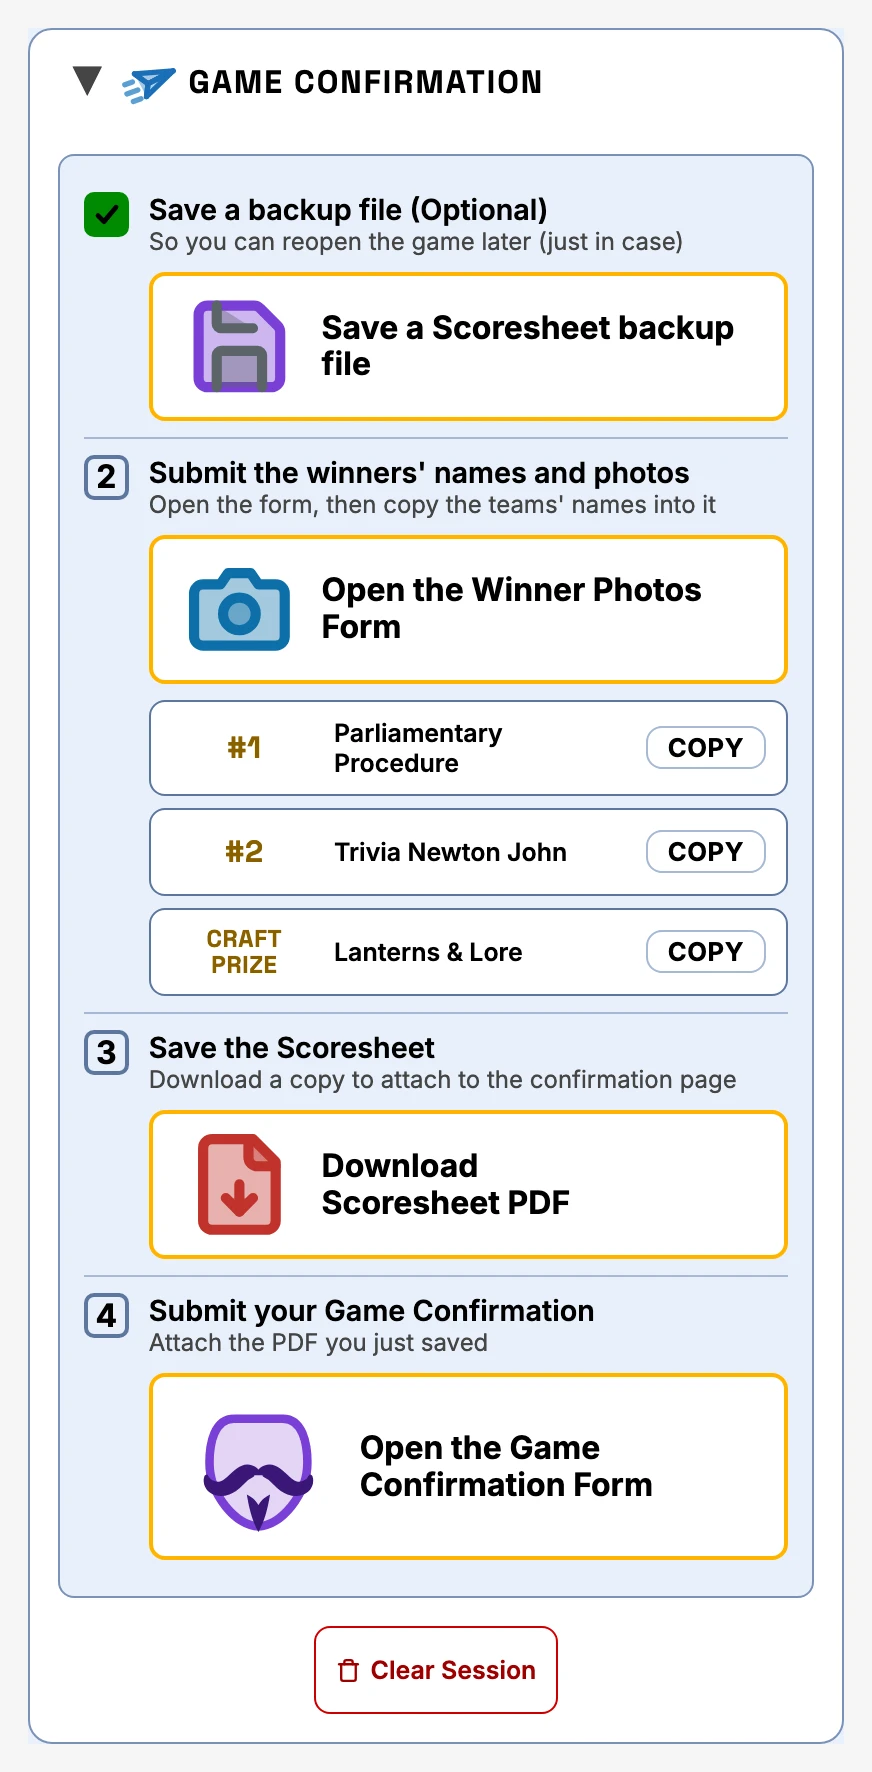
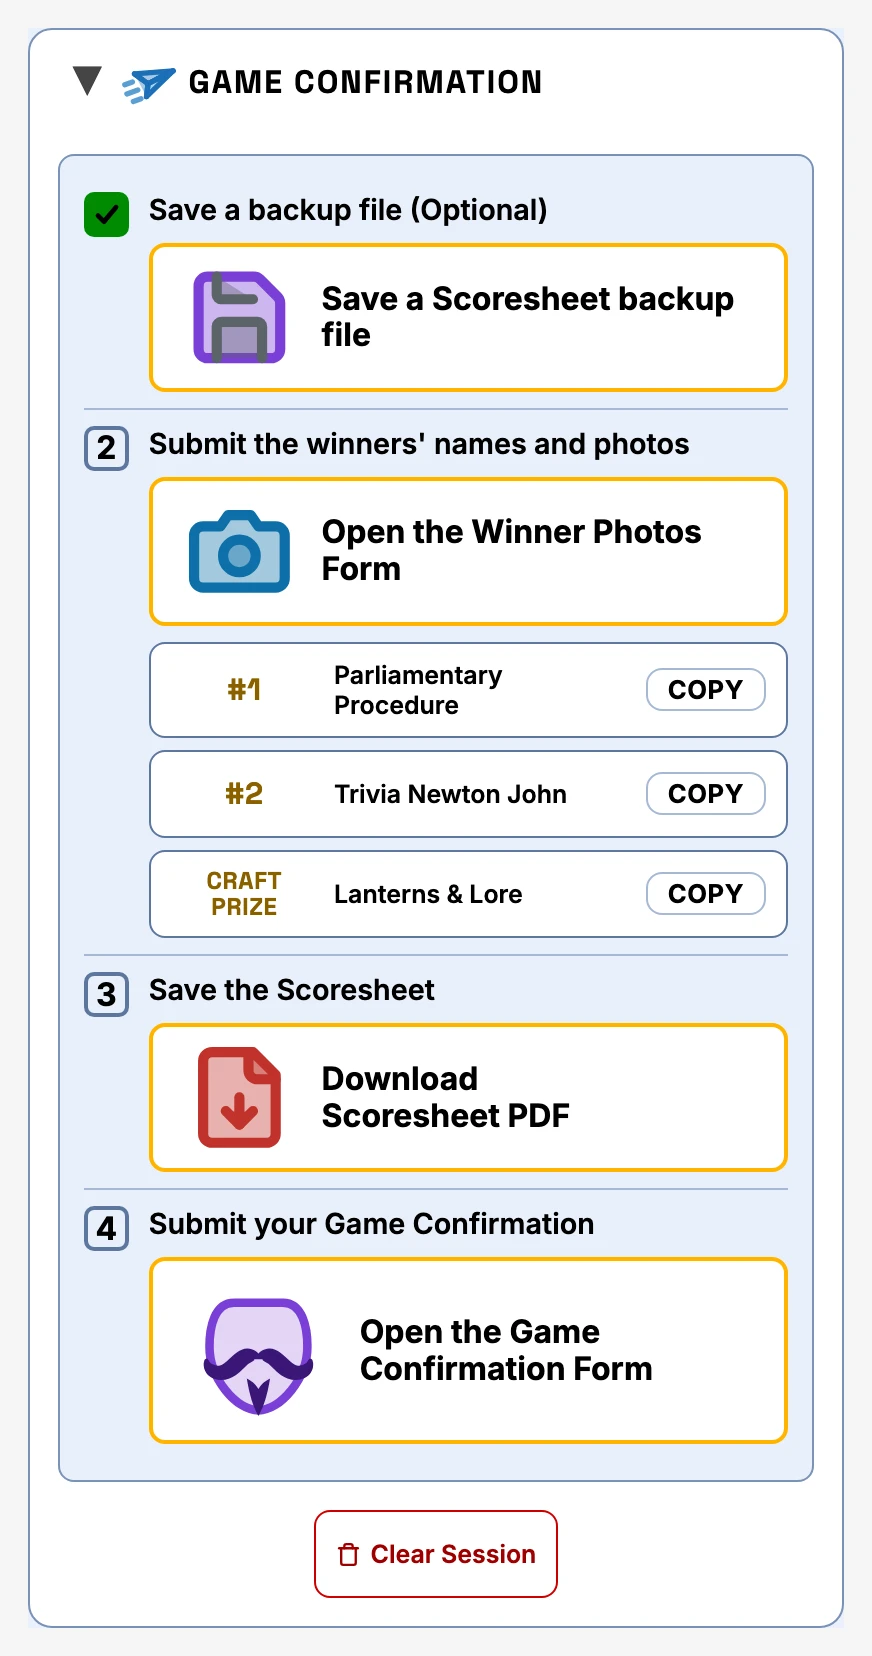
v22.71 Game Confirmation steps lose their subtitles, FAQ v1.72 screenshots

diff --git a/index.html b/index.html
@@ -109,7 +109,7 @@
     </div>
     </div>
     <div class="settings-panel-foot">
-    <div class="settings-meta"><span class="settings-version" id="versionLabel"></span><details class="settings-about"><summary>What's new</summary><div class="about-ver"><b>v22.70</b><ul><li>The "Copied" confirmation now fades back to the normal label smoothly instead of flashing, and step 4 says "Attach the PDF you just saved".</li></ul></div><div class="about-ver"><b>v22.69</b><ul><li>Game Confirmation: ticked steps use the same checkmark as question scoring, tapping the backup button no longer makes the view jump, step 4 is "Submit your Game Confirmation", and the place labels are darker in light mode.</li></ul></div><div class="about-ver"><b>v22.68</b><ul><li>Game Confirmation: the step buttons now have a gold outline, and only the #1/#2/#3 numbers are bigger in the copy buttons (Craft Prize is back to normal).</li></ul></div></details><span class="settings-disclaimer"><svg class="icon-ui" viewBox="0 0 24 24" aria-hidden="true" focusable="false"><path d="m21.73 18-8-14a2 2 0 0 0-3.48 0l-8 14A2 2 0 0 0 4 21h16a2 2 0 0 0 1.73-3"/><path d="M12 9v4"/><path d="M12 17h.01"/></svg> Built with Anthropic's Claude AI — double-check scores &amp; banter yourself.</span></div>
+    <div class="settings-meta"><span class="settings-version" id="versionLabel"></span><details class="settings-about"><summary>What's new</summary><div class="about-ver"><b>v22.71</b><ul><li>Game Confirmation: the subtitle under each step is gone, so the list is shorter.</li></ul></div><div class="about-ver"><b>v22.70</b><ul><li>The "Copied" confirmation now fades back to the normal label smoothly instead of flashing, and step 4 says "Attach the PDF you just saved".</li></ul></div><div class="about-ver"><b>v22.69</b><ul><li>Game Confirmation: ticked steps use the same checkmark as question scoring, tapping the backup button no longer makes the view jump, step 4 is "Submit your Game Confirmation", and the place labels are darker in light mode.</li></ul></div></details><span class="settings-disclaimer"><svg class="icon-ui" viewBox="0 0 24 24" aria-hidden="true" focusable="false"><path d="m21.73 18-8-14a2 2 0 0 0-3.48 0l-8 14A2 2 0 0 0 4 21h16a2 2 0 0 0 1.73-3"/><path d="M12 9v4"/><path d="M12 17h.01"/></svg> Built with Anthropic's Claude AI — double-check scores &amp; banter yourself.</span></div>
     </div>
   </div>
 </div>

diff --git a/js/app.js b/js/app.js
@@ -69,8 +69,8 @@ const FIELD_MAX = {
   timezone: 64,
   locale: 35,
 };
-const APP_VERSION = "v22.70"; // #Version Number — bump this manually when you release a new build
-const APP_VERSION_DATE = "Nov 22, 2026 4:31 AM"; // #Version Date — bump alongside APP_VERSION so folks can spot a stale build
+const APP_VERSION = "v22.71"; // #Version Number — bump this manually when you release a new build
+const APP_VERSION_DATE = "Nov 22, 2026 4:36 AM"; // #Version Date — bump alongside APP_VERSION so folks can spot a stale build
 // version.json (repo root) mirrors these two — see checkForUpdate() below for why, and bump it
 // in the same commit as these two or the update-available check starts lying: it'd either miss
 // a real new release (version.json still saying the old version) or nag a host running the
@@ -1109,10 +1109,10 @@ let finishDone = new Set();
 const FINISH_PHOTOS_URL = "https://form.jotform.com/263015326852050";
 const FINISH_CONFIRM_URL = "https://app.jotform.com/261954293403156";
 const FINISH_STEPS = [
-  { k: "backup", label: "Save a backup file (Optional)", hint: "So you can reopen the game later (just in case)" },
-  { k: "photos", label: "Submit the winners' names and photos", hint: "Open the form, then copy the teams' names into it" },
-  { k: "pdf", label: "Save the Scoresheet", hint: "Download a copy to attach to the confirmation page" },
-  { k: "confirm", label: "Submit your Game Confirmation", hint: "Attach the PDF you just saved" },
+  { k: "backup", label: "Save a backup file (Optional)" },
+  { k: "photos", label: "Submit the winners' names and photos" },
+  { k: "pdf", label: "Save the Scoresheet" },
+  { k: "confirm", label: "Submit your Game Confirmation" },
 ];
 
 

diff --git a/faq/index.html b/faq/index.html
@@ -1324,7 +1324,7 @@
         <div class="faq-shot">
           <img
             loading="lazy"
-            width="872" height="1772" decoding="async"
+            width="872" height="1656" decoding="async"
             src="screenshots/export-bar.webp"
             data-shot-base="export-bar"
             alt="Game Confirmation section as one numbered list: Save a backup file (Optional), Submit the winners' names and photos with Copy buttons for the top teams and the craft prize winner under it, Save the Scoresheet, and Submit your Game Confirmation"

diff --git a/faq/js/faq.js b/faq/js/faq.js
@@ -4,7 +4,7 @@
 // #versionLabel element. Here the same string feeds two spots — the page footer and the
 // Settings panel's settings-meta row — so bumping a release only means editing these two
 // constants instead of hunting down every place the version text is written out by hand.
-const FAQ_VERSION = "v1.71";
+const FAQ_VERSION = "v1.72";
 const FAQ_VERSION_DATE = "22 Nov 2026";
 
 // Same Lucide sun/moon geometry as the main app's THEME_ICON_SUN/MOON (js/app.js), tagged

diff --git a/faq/screenshots/README.md b/faq/screenshots/README.md
@@ -51,7 +51,7 @@ comparison it exists to make.
 | `craft-prize.webp` | The Craft Prize Drawing section open pre-draw, showing the Exclude Top / Drumroll-seconds steppers and the square **Start Drumroll** button (v19.60). | Craft Prize Drawing |
 | `craft-prize-drumroll.webp` | The Craft Prize drumroll actively playing, right after clicking Start Drumroll — the spinning name and countdown bar. | Craft Prize Drawing |
 | `craft-prize-winner.webp` | The finished draw — winning team announced, with the **Clear** button next to the result and the Winner Announcement Script below. | Craft Prize Drawing |
-| `export-bar.webp` | The Game Confirmation section as one numbered list — Save a backup file (Optional), Submit the winners' names and photos (📷 form button with the Copy buttons for the top teams and craft prize winner under it), Save the Scoresheet (Download Scoresheet PDF), Submit your Game Confirmation (🎭 form button), then Clear Session. Each step button is a wide rectangle with a gold outline and the picto on the left (v22.70). Dark + light. | Exporting |
+| `export-bar.webp` | The Game Confirmation section as one numbered list — Save a backup file (Optional), Submit the winners' names and photos (📷 form button with the Copy buttons for the top teams and craft prize winner under it), Save the Scoresheet (Download Scoresheet PDF), Submit your Game Confirmation (🎭 form button), then Clear Session. Each step button is a wide rectangle with a gold outline and the picto on the left (v22.71). Dark + light. | Exporting |
 | `pdf-export.webp` | The downloaded PDF scoresheet — same header plus full standings. | Exporting |
 | `jd-upload-form.webp` | The Game Confirmation page, opened in its own browser tab. | Exporting |
 | `sound-test-buttons.webp` | The Craft Prize Drawing's Test Sounds bar — the square Roll / Fade out / Crash / Horn buttons (Advanced Settings → Manual Drumroll Control **and** Sound Test Buttons both on). | Tips & Tricks |

diff --git a/CHANGELOG.md b/CHANGELOG.md
@@ -14,6 +14,11 @@ Theme Night is a major change, so its first release (commit subject "v19.78") is
 v20.0 here and in the app, and the follow-ups after it are v20.1 through v20.6 (commit subjects
 v19.79 through v19.84; git history isn't rewritten).
 
+## v22.71 - 2026-11-22
+
+- **Game Confirmation steps lose their subtitles** (the hint line under each step title) so the list is shorter and less wordy.
+- FAQ v1.72: regenerated `export-bar` screenshots without the subtitles.
+
 ## v22.70 - 2026-11-22
 
 - **Step 4 subtitle** says "Attach the PDF you just saved" again.

diff --git a/faq/CHANGELOG.md b/faq/CHANGELOG.md
@@ -2,6 +2,12 @@
 
 All notable changes to the Scorekeeper FAQ site are documented here.
 
+## [1.72] - 22 Nov 2026
+
+### Changed
+
+- **Game Confirmation screenshot** (`export-bar`, dark + light) regenerated for app v22.71: the step subtitles are gone.
+
 ## [1.71] - 22 Nov 2026
 
 ### Changed
